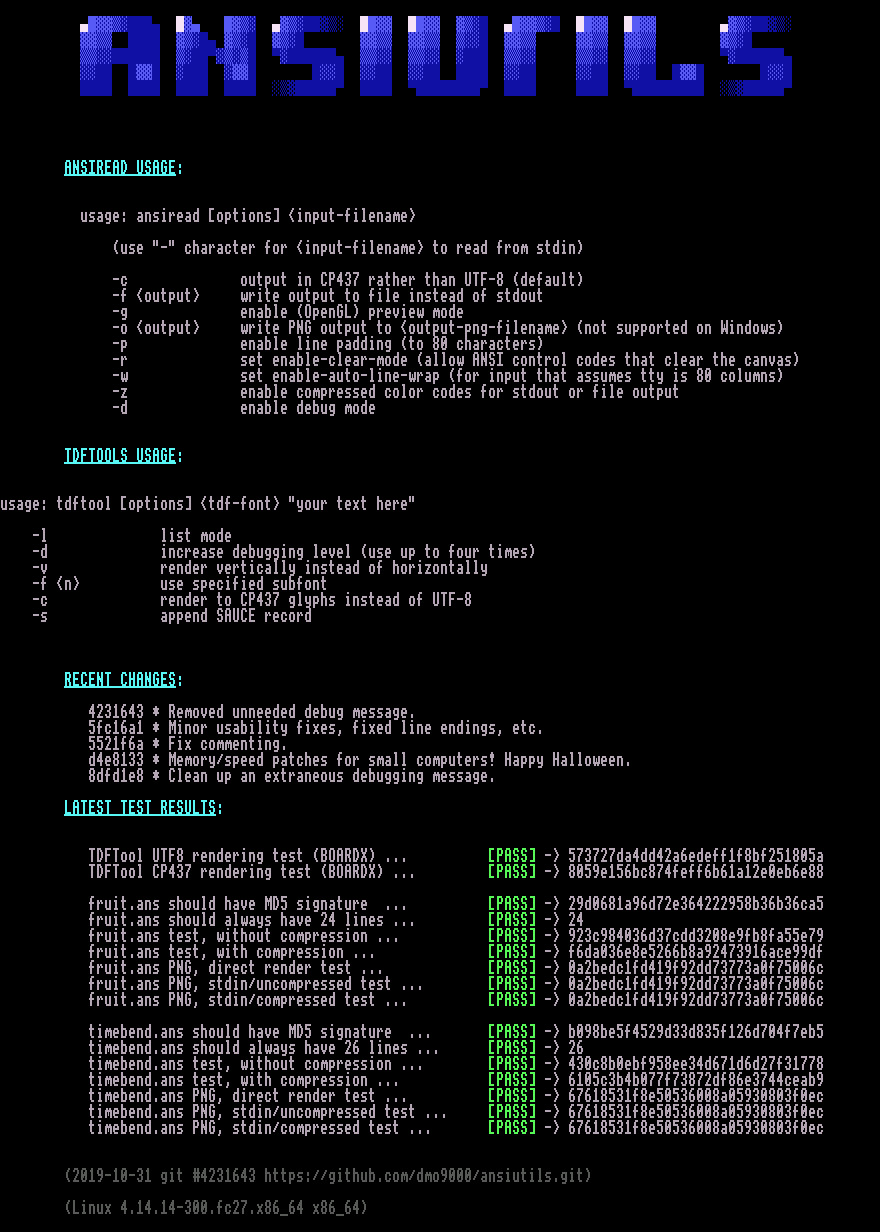
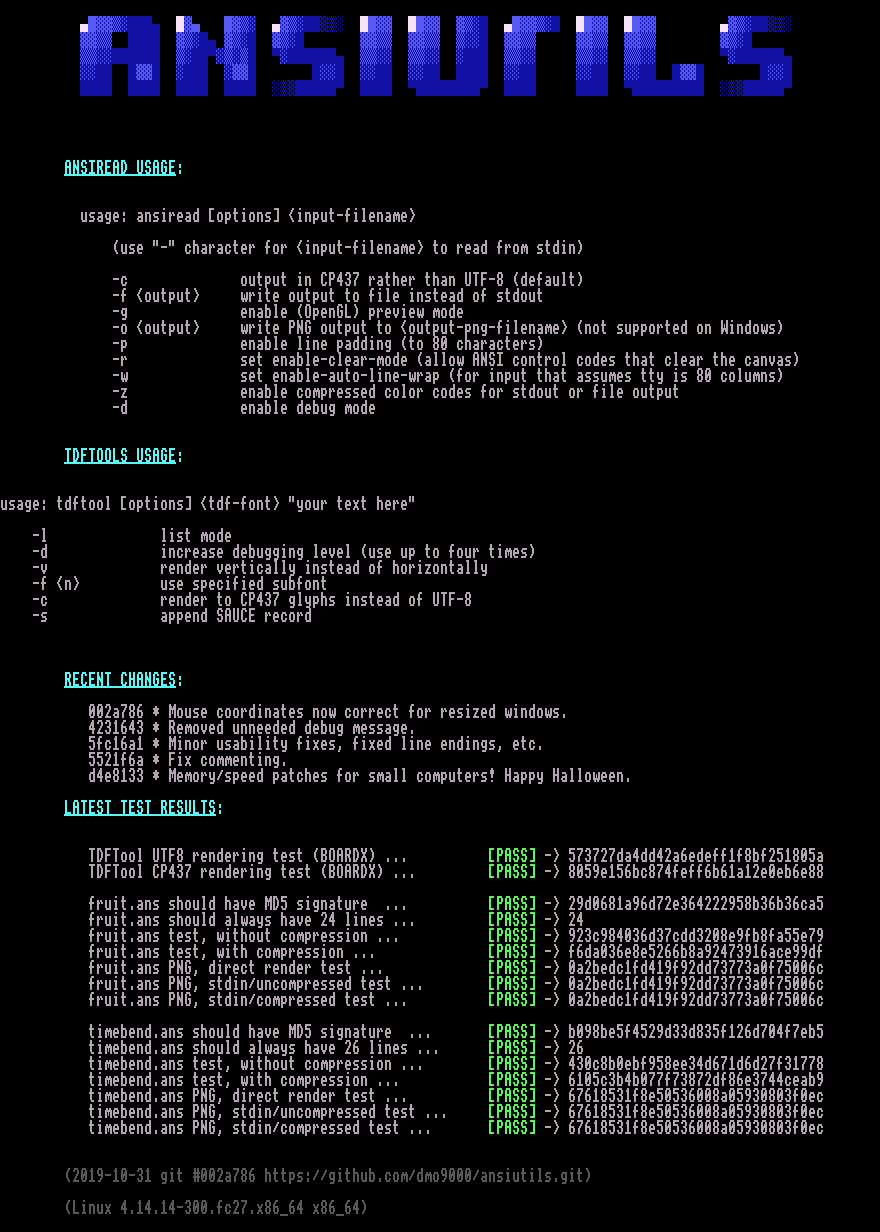
Performance improvements for handling mouse awareness of window size.

Changed region(s): [[0.092, 0.5552, 0.7057, 0.6477]]

diff --git a/ansiutils.html b/ansiutils.html
@@ -52,11 +52,11 @@
 
 	<span style="color:aqua;"></span><span style="text-decoration:underline;color:aqua;"></span><span style="text-decoration:underline;font-weight:bold;color:aqua;">RECENT CHANGES</span><span style="font-weight:bold;color:aqua;">:</span><span style="color:aqua;"></span>
 
+<span style="color:white;background-color:black;">           002a786 * Mouse coordinates now correct for resized windows.</span>
 <span style="color:white;background-color:black;">           4231643 * Removed unneeded debug message.</span>
 <span style="color:white;background-color:black;">           5fc16a1 * Minor usability fixes, fixed line endings, etc.</span>
 <span style="color:white;background-color:black;">           5521f6a * Fix commenting.</span>
 <span style="color:white;background-color:black;">           d4e8133 * Memory/speed patches for small computers! Happy Halloween.</span>
-<span style="color:white;background-color:black;">           8dfd1e8 * Clean up an extraneous debugging message.</span>
 
 	<span style="color:aqua;"></span><span style="text-decoration:underline;color:aqua;"></span><span style="text-decoration:underline;font-weight:bold;color:aqua;">LATEST TEST RESULTS</span><span style="font-weight:bold;color:aqua;">:</span><span style="color:aqua;"></span>
 
@@ -81,7 +81,7 @@
 <span style="color:white;background-color:black;">           timebend.ans PNG, stdin/compressed test ...       </span><span style="color:lime;background-color:black;"></span><span style="font-weight:bold;color:lime;background-color:black;">[PASS]</span><span style="font-weight:bold;color:white;background-color:black;"></span><span style="color:white;background-color:black;"> -&gt; 67618531f8e50536008a05930803f0ec </span>
 <span style="color:white;background-color:black;">           </span>
 
-	<span style="color:dimgray;"></span><span style="font-weight:bold;color:dimgray;">(2019-10-31 git #4231643 https://github.com/dmo9000/ansiutils.git)</span><span style="color:dimgray;"></span>
+	<span style="color:dimgray;"></span><span style="font-weight:bold;color:dimgray;">(2019-10-31 git #002a786 https://github.com/dmo9000/ansiutils.git)</span><span style="color:dimgray;"></span>
 
 	<span style="color:dimgray;"></span><span style="font-weight:bold;color:dimgray;">(Linux 4.14.14-300.fc27.x86_64 x86_64)</span><span style="color:dimgray;"></span>
                                                                                                               

diff --git a/gfx_opengl.c b/gfx_opengl.c
@@ -163,7 +163,7 @@ void display()
 
 void reshape_window(GLsizei w, GLsizei h)
 {
-    //printf("reshape_window(w=%u,h=%u)\r\n", w, h);
+    printf("reshape_window(w=%u,h=%u)\r\n", w, h);
     glClearColor(0.0f, 0.0f, 0.5f, 0.0f);
     glMatrixMode(GL_PROJECTION);
     glLoadIdentity();
@@ -442,15 +442,11 @@ void process_Mouse_Move(int x, int y)
 		float xn = 0.0;
 		float yn = 0.0;
 
-		
-		int mwidth = glutGet(GLUT_WINDOW_WIDTH);
-		int mheight = glutGet(GLUT_WINDOW_HEIGHT);
-
     //fprintf(stderr, "process_Mouse_Move(%d,%d,%d,%d)\n",
    // 				x, y, mwidth, mheight);
 
-		xn = (float) ((float) x / (float) mwidth);
-		yn = (float) ((float) y / (float) mheight);
+		xn = (float) ((float) x / (float) display_width);
+		yn = (float) ((float) y / (float) display_height);
 
 //		printf("xn = %f\n", xn);
 //		printf("yn = %f\n", yn);
